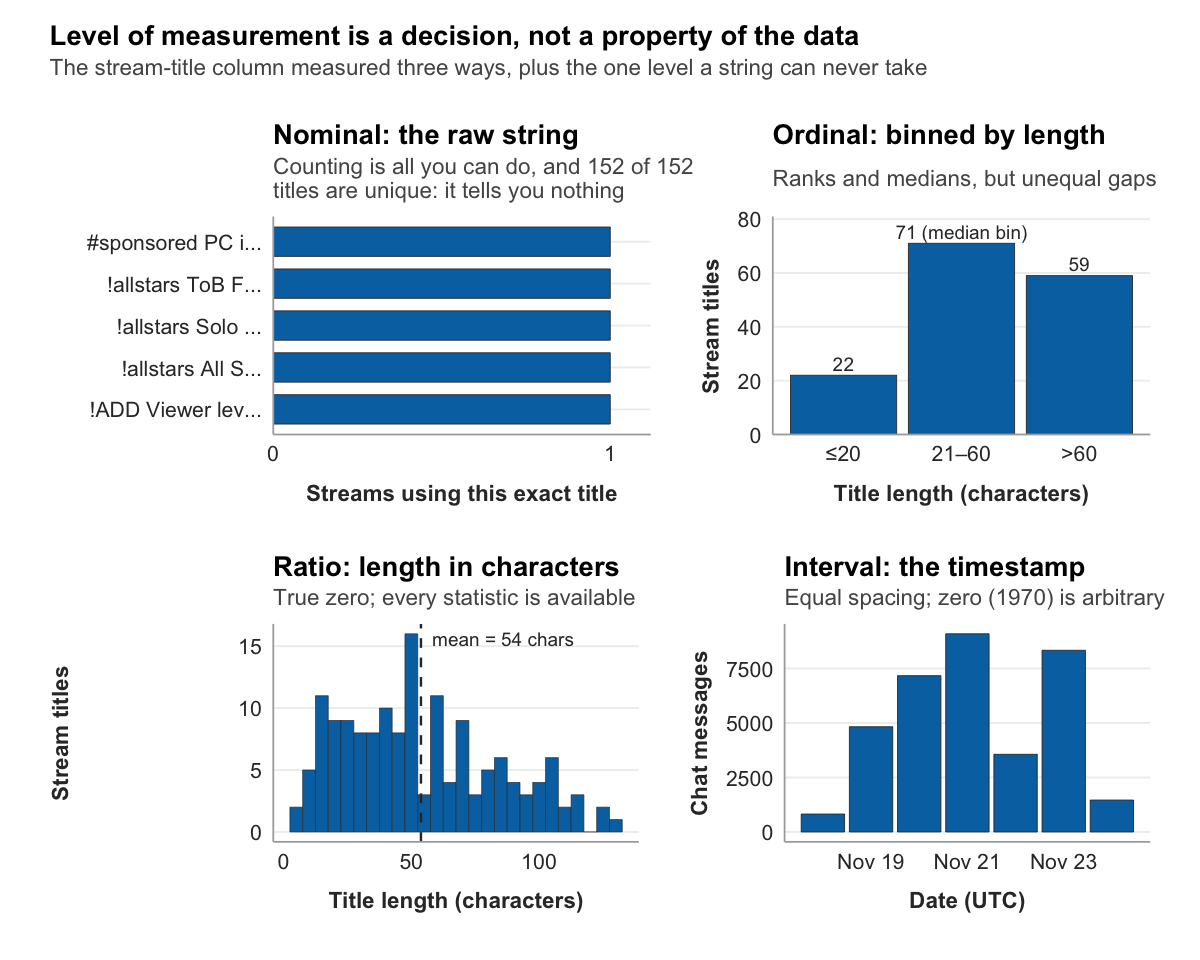
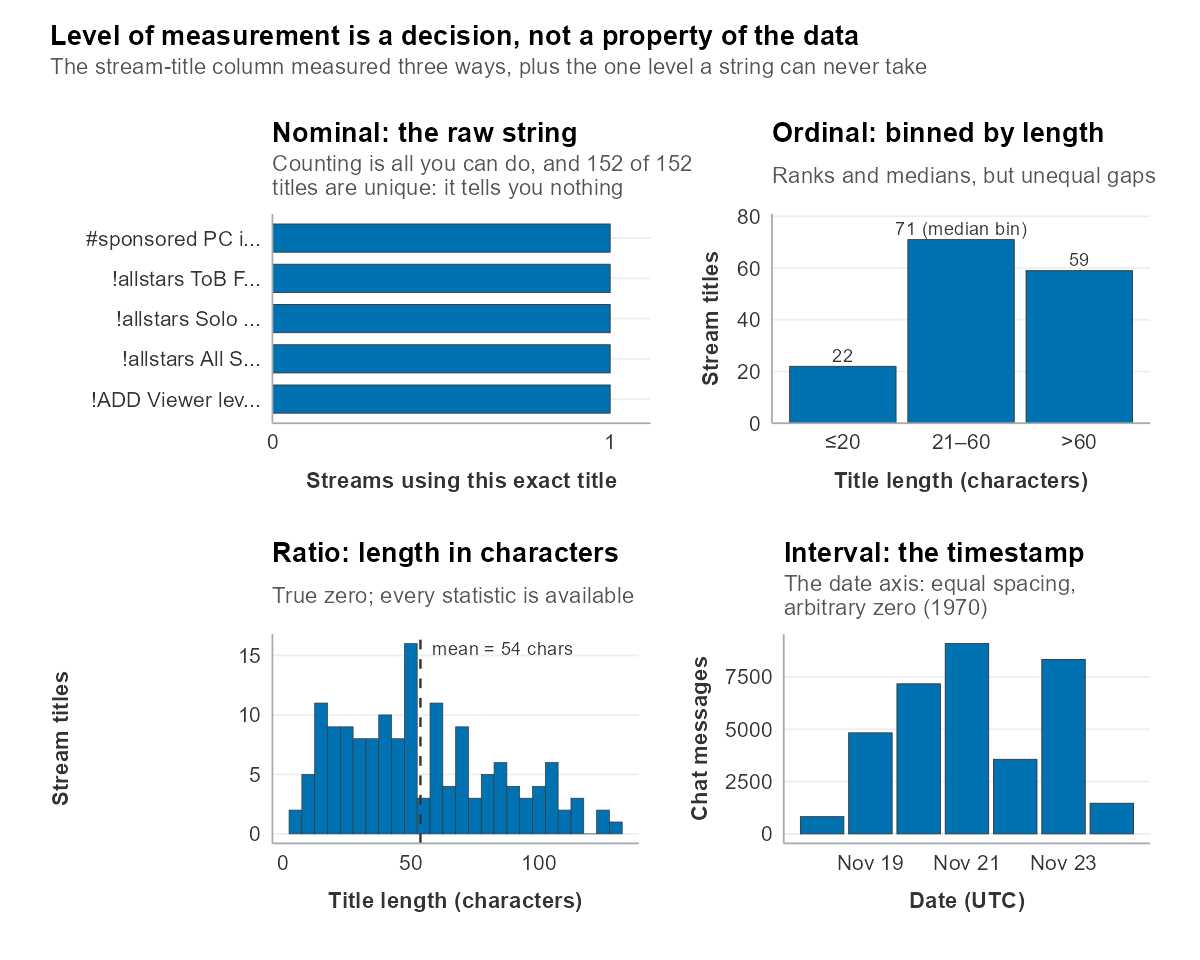
Show one chapter audio player per view, and classify the date column consistently
The audio block's .chapter-audio class sat on the same div as
.content-visible, which Quarto unwraps in HTML, so the CSS that hides the
off-view player never matched and both players showed in both views.
Nest the styled div inside the visibility div in all 14 chapters and in
the injector template.

Chapter 8 and Figure 8.1: a posting date is interval; an elapsed time,
such as hours since the stream started, is ratio.

diff --git a/tools/audio/inject_audio.py b/tools/audio/inject_audio.py
@@ -4,7 +4,11 @@ CRLF/LF tolerant, idempotent. Run AFTER quote edits + audio render."""
 import re, pathlib
 CH = pathlib.Path("/Volumes/One Touch/20-research/aura-lab/v2v-book/chapters")
 
-BLOCK_TMPL = '''::: {{.chapter-audio}}
+# The visibility div wraps the styled div. Quarto unwraps a .content-visible div
+# in HTML, so classes on that same div never reach the page and the CSS that
+# hides the off-view player stops matching (both players showed, 2026-10-13).
+BLOCK_TMPL = ''':::: {{.content-visible unless-format="epub"}}
+::: {{.chapter-audio}}
 [Listen in Dr. Leith's voice]{{.audio-label}}
 
 ```{{=html}}
@@ -13,6 +17,7 @@ BLOCK_TMPL = '''::: {{.chapter-audio}}
 ```
 
 :::
+::::
 '''
 
 done, skip = [], []
